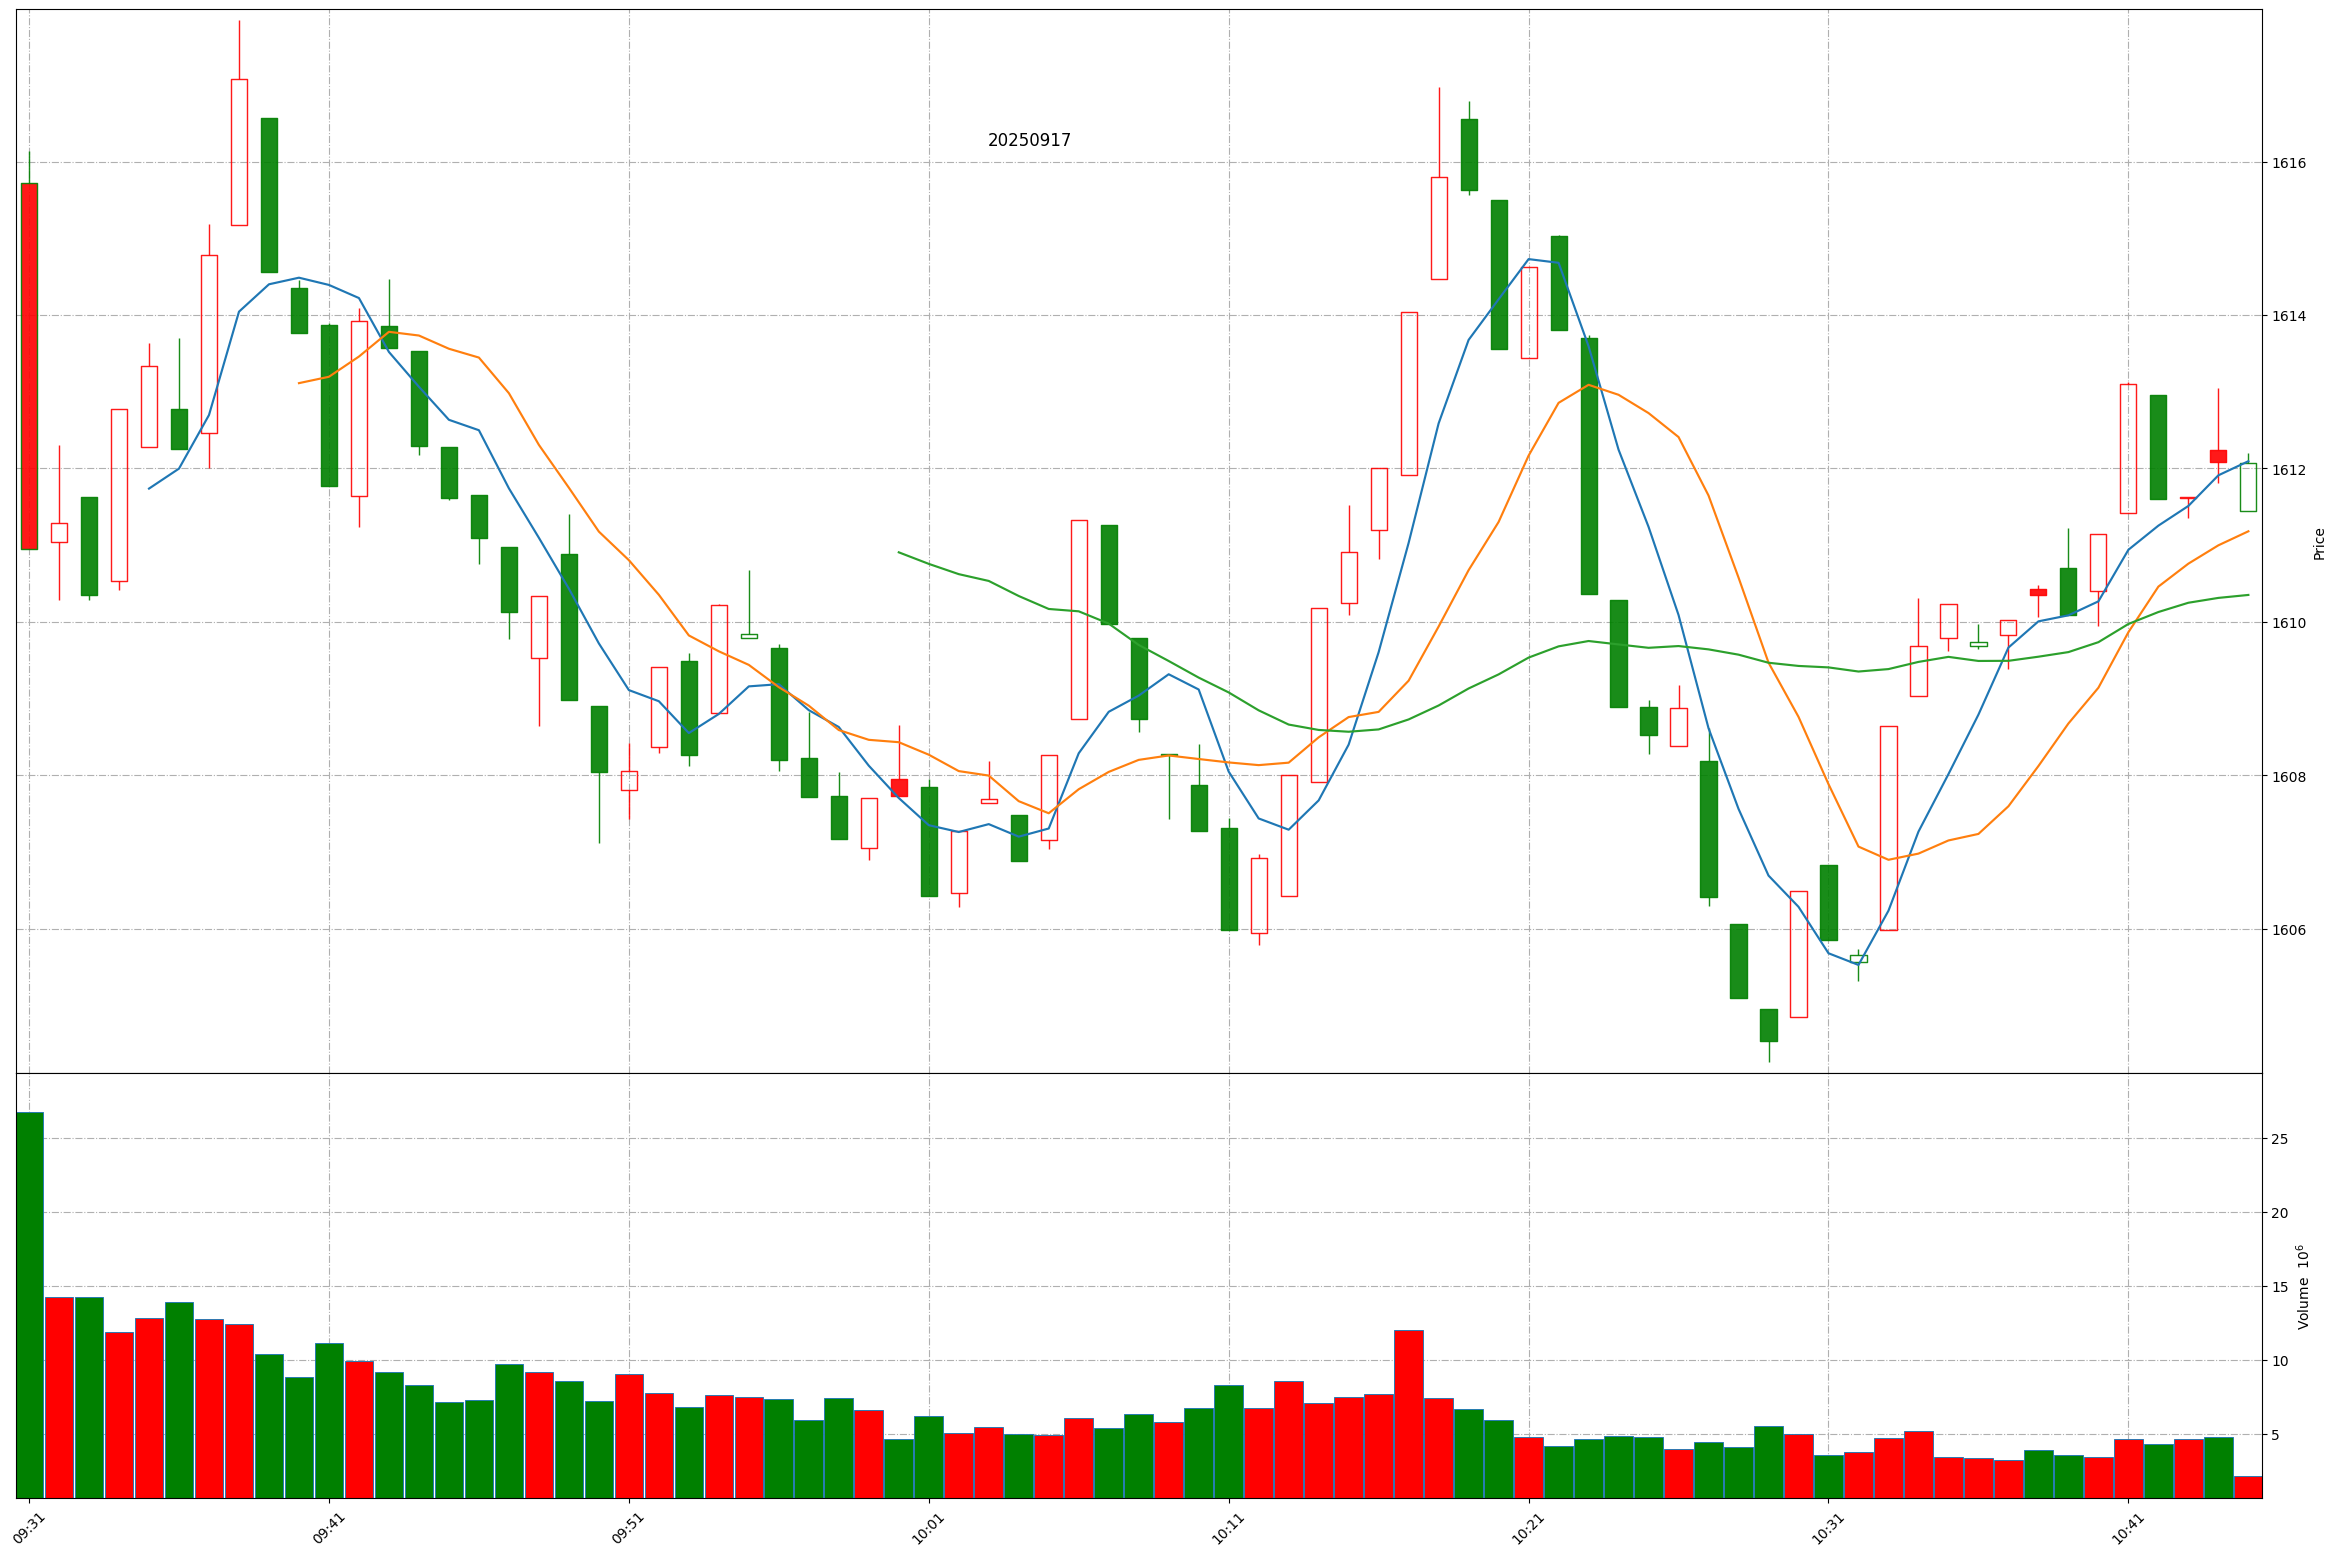
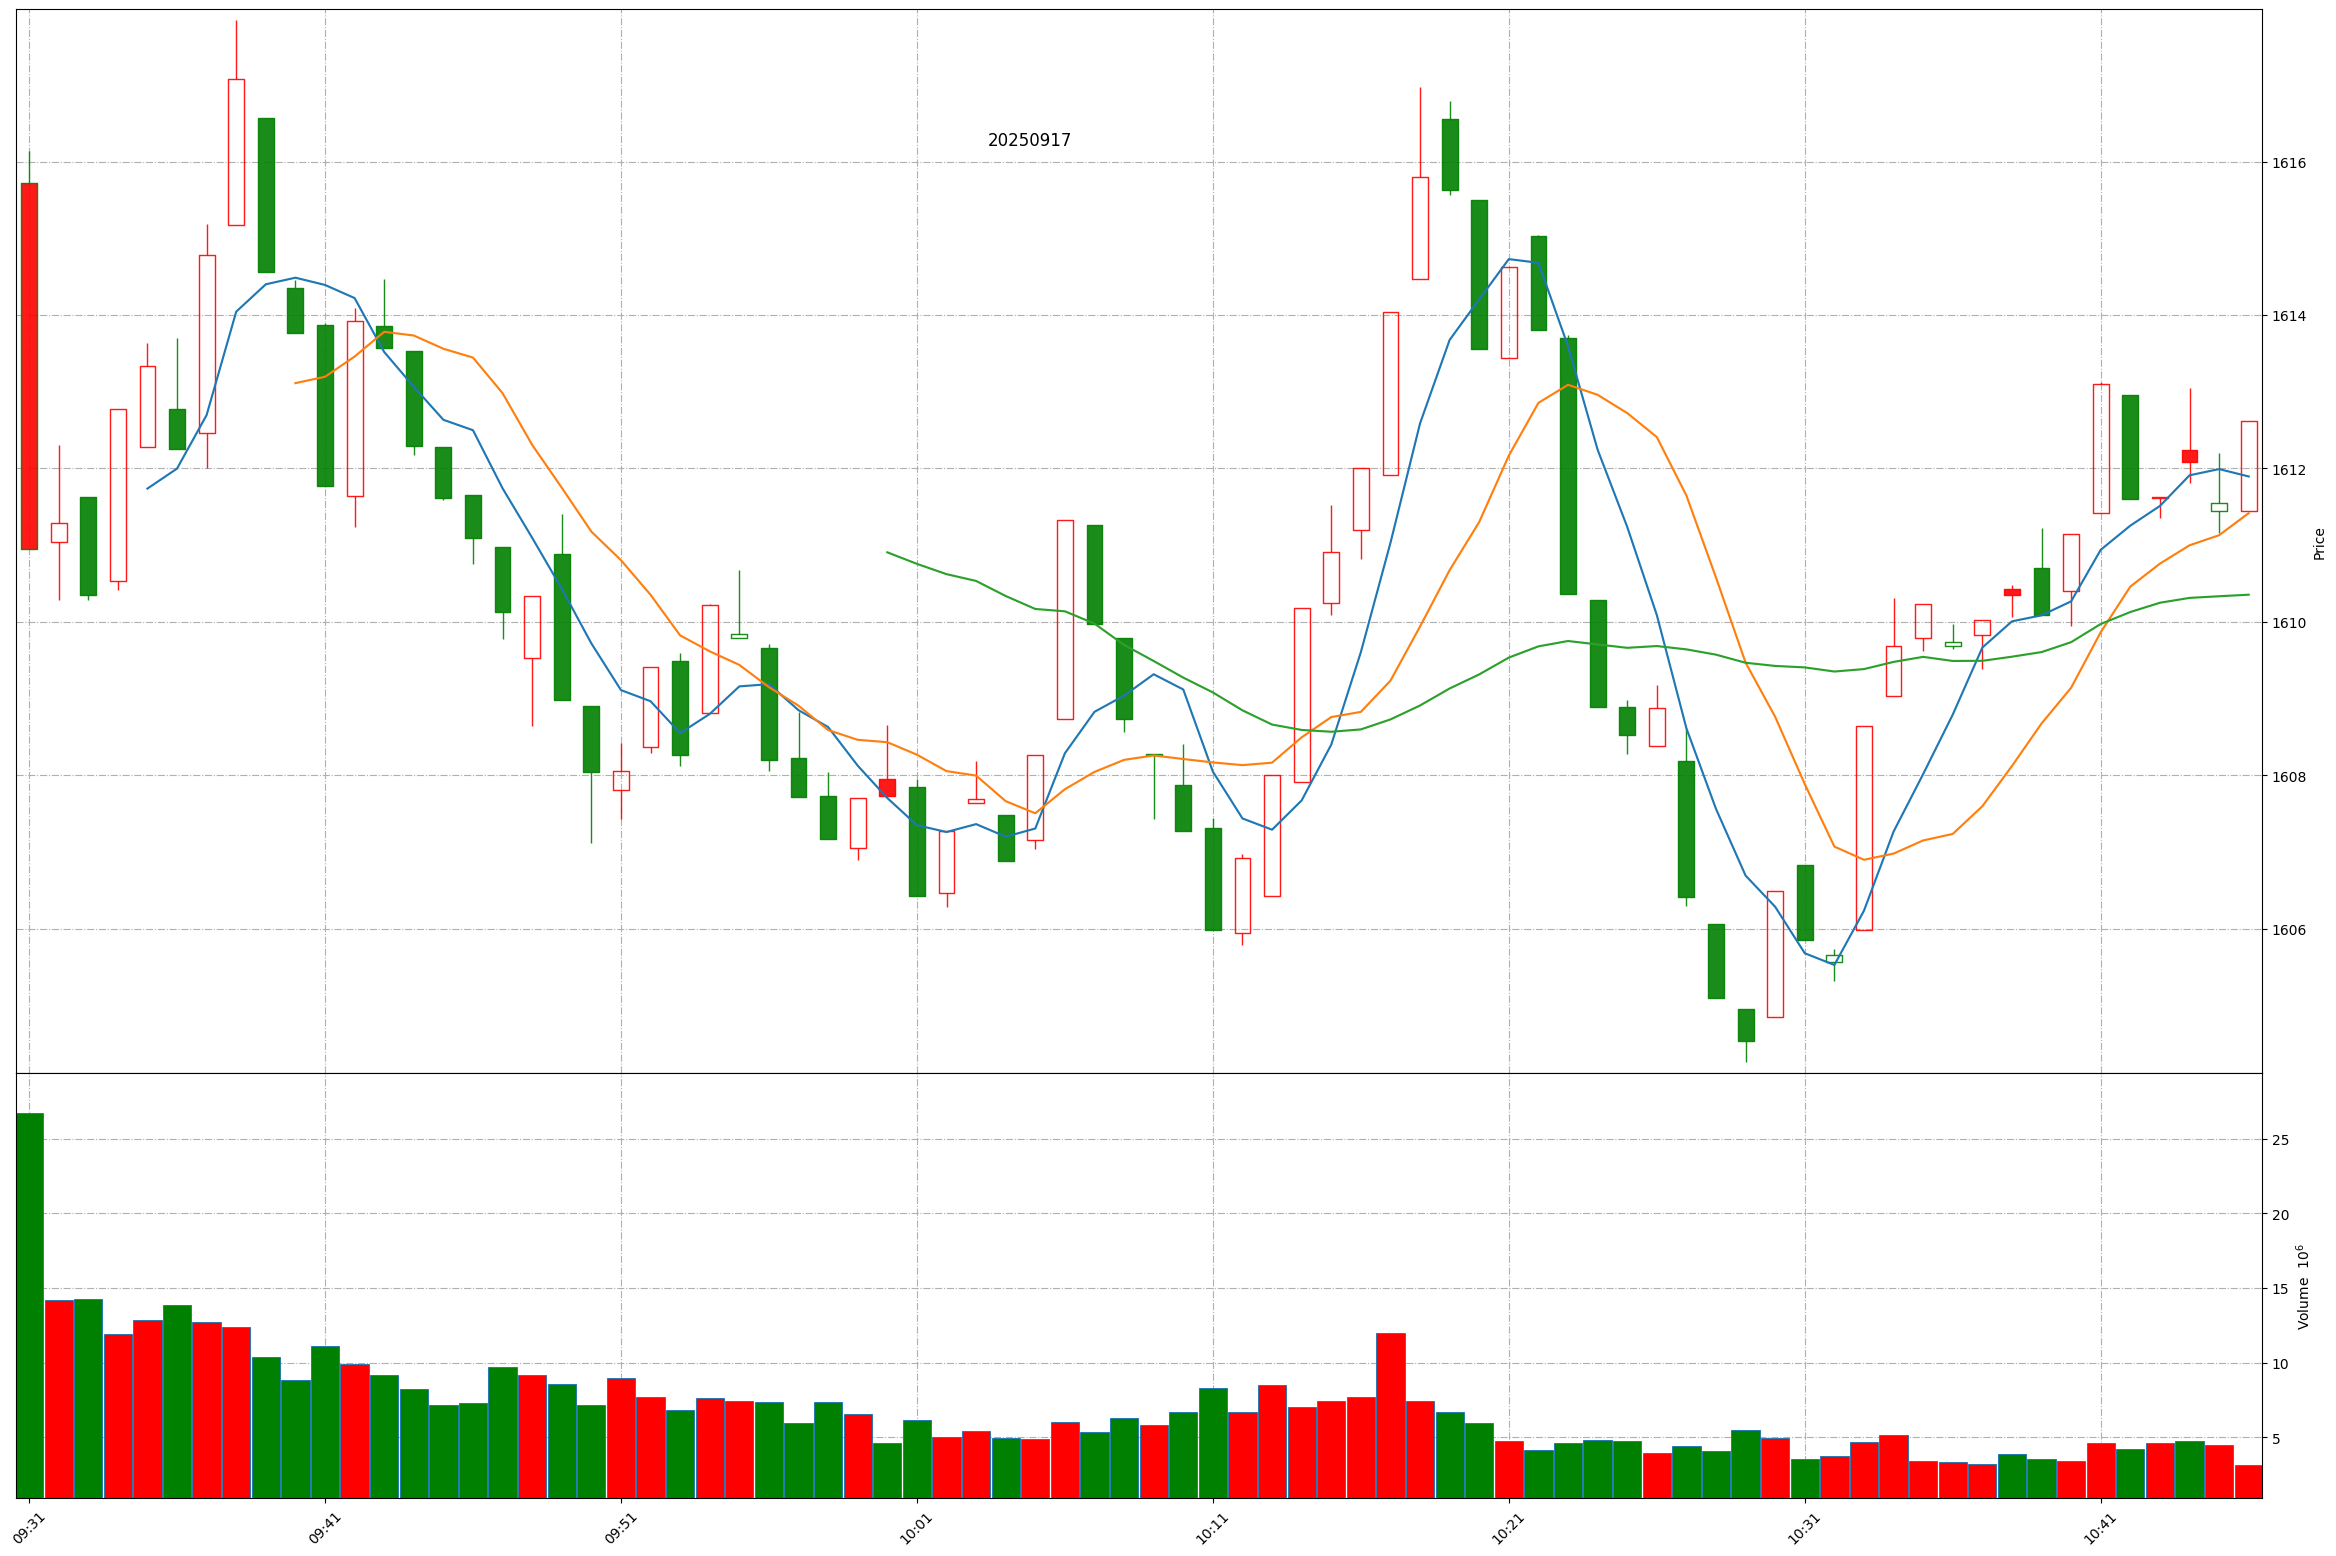
Github action update at 2025-09-17 10:45:47.

Changed region(s): [[0.0312, 0.0308, 0.9688, 0.6787], [0.0312, 0.8329, 0.9688, 0.9871], [0.375, 0.3393, 0.4062, 0.3702]]

diff --git a/README.md b/README.md
@@ -1,11 +1,11 @@
 
 # Daily-A-share-market-quotes 每日 A 股指数（5min 更新）- 20250917
 
-### 上证指数 20250917 10:44
+### 上证指数 20250917 10:45
 ![](./fig/2025/9/20250917-sh000001.png)
 
-### 深证成指 20250917 10:44
+### 深证成指 20250917 10:45
 ![](./fig/2025/9/20250917-sz399001.png)
 
-### 北证50 20250917 10:44
+### 北证50 20250917 10:45
 ![](./fig/2025/9/20250917-bj899050.png)
